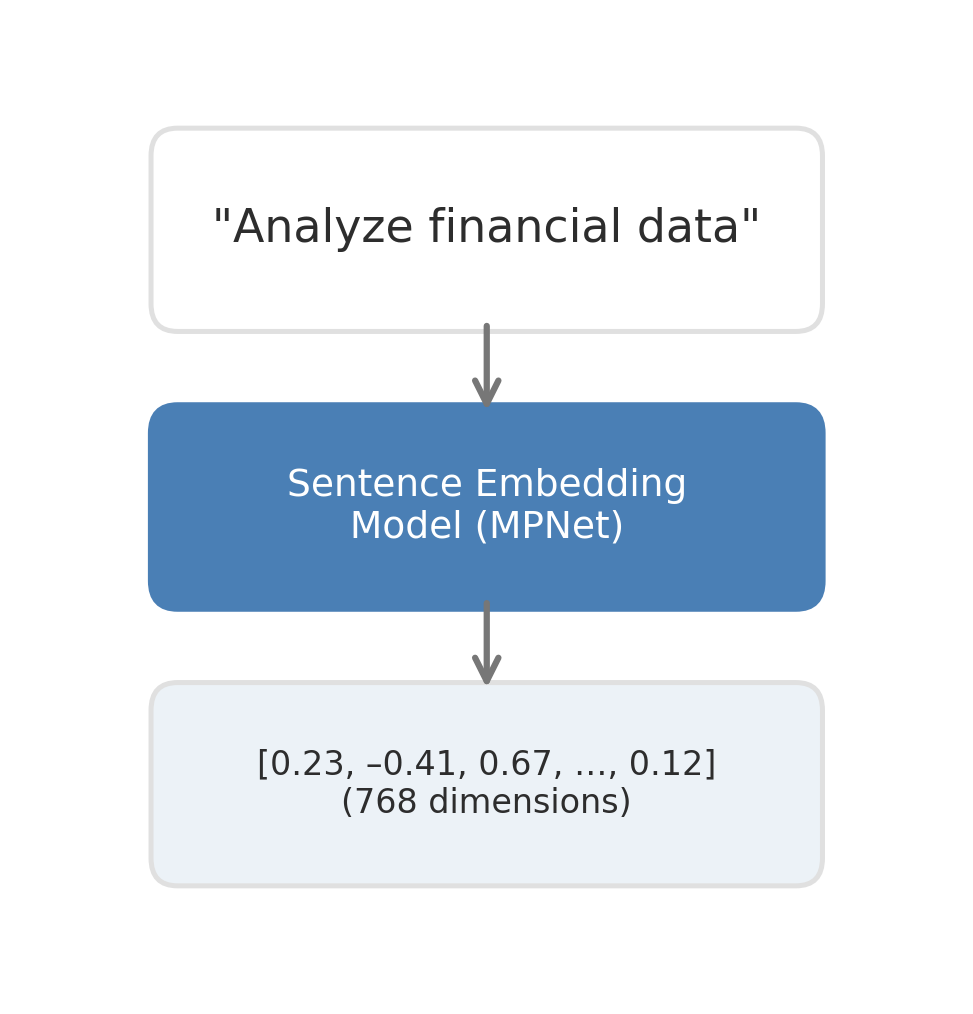
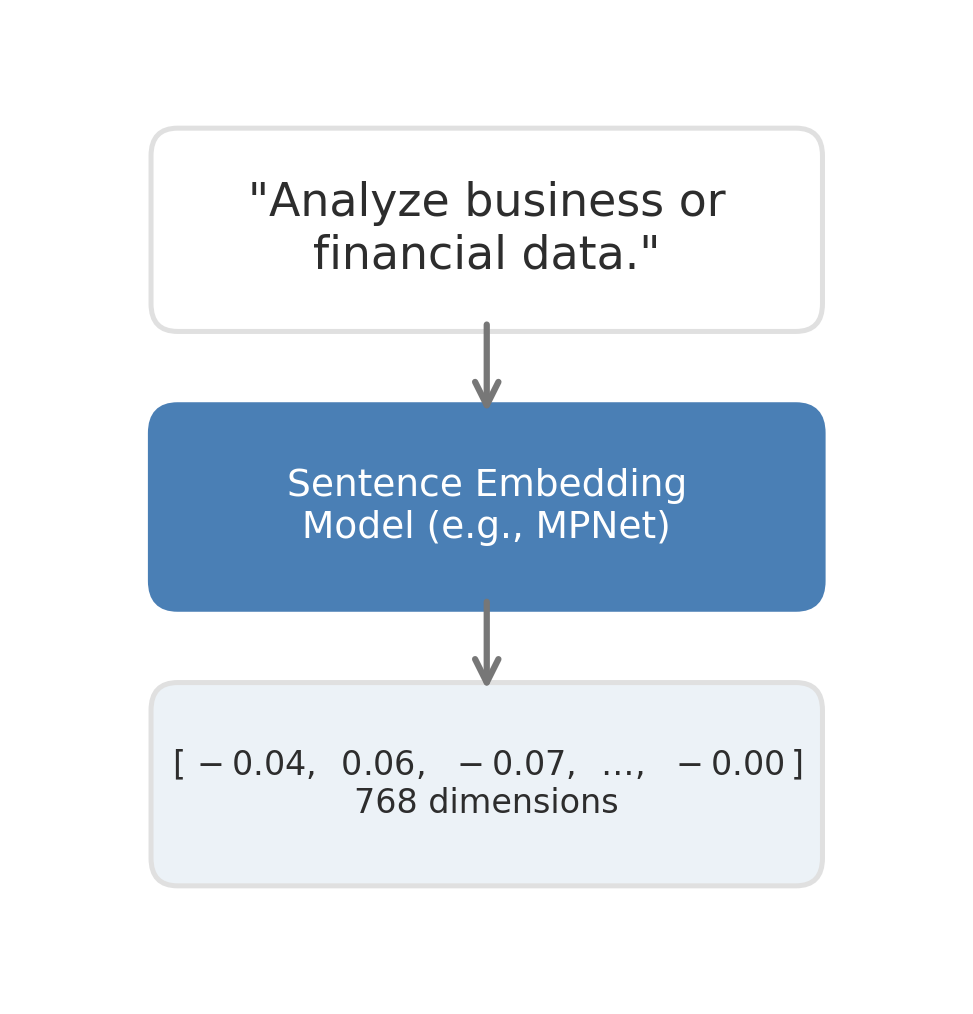
v0.7.10.0: Polish embedding explainer figures

diff --git a/figures/fig9_word_analogy.py b/figures/fig9_word_analogy.py
@@ -7,57 +7,65 @@ sys.path.insert(0, os.path.join(os.path.dirname(__file__), '..'))
 
 import matplotlib.pyplot as plt
 
-from figures.style import setup, PRIMARY, MID, DARK, add_subtitle
+from figures.style import (setup, PRIMARY, MID, DARK, GRID,
+                           add_subtitle, FONT_TITLE, FONT_TICK)
 
 font = setup()
 
+# Real approximate parallelogram positions
 points = {
-    'King':  (2.0, 3.5),
-    'Queen': (4.0, 3.5),
-    'Man':   (2.0, 1.5),
-    'Woman': (4.0, 1.5),
+    'King':  (1.8, 3.2),
+    'Queen': (4.3, 3.6),
+    'Man':   (1.5, 1.0),
+    'Woman': (4.1, 1.3),
 }
 
 fig, ax = plt.subplots(figsize=(4.5, 4.0))
-ax.set_xlim(0.5, 5.5)
-ax.set_ylim(0.3, 4.7)
-ax.axis('off')
+ax.set_xlim(0, 5.5)
+ax.set_ylim(0, 4.5)
+ax.grid(True, color=GRID, lw=0.5)
+ax.set_xticks([0, 1, 2, 3, 4, 5])
+ax.set_yticks([0, 1, 2, 3, 4])
+ax.tick_params(axis='both', labelsize=FONT_TICK)
 
 # --- Dashed arrows ---
 arrow_kw = dict(arrowstyle='->', color=MID, lw=1.2, linestyle='dashed')
 
-# Man → King (vertical — "royalty")
-ax.annotate('', xy=points['King'], xytext=points['Man'],
-            arrowprops=arrow_kw)
-ax.text(1.55, 2.5, 'royalty', fontsize=9, color=MID,
-        ha='center', va='center', rotation=90, fontstyle='italic')
+# Man → King ("royalty")
+mx, my = points['Man']
+kx, ky = points['King']
+ax.annotate('', xy=(kx, ky), xytext=(mx, my), arrowprops=arrow_kw)
+ax.text((mx + kx) / 2 - 0.35, (my + ky) / 2, 'royalty',
+        fontsize=FONT_TICK, color=MID, ha='center', va='center',
+        rotation=74, fontstyle='italic')
 
-# Man → Woman (horizontal — "gender")
-ax.annotate('', xy=points['Woman'], xytext=points['Man'],
-            arrowprops=arrow_kw)
-ax.text(3.0, 1.15, 'gender', fontsize=9, color=MID,
-        ha='center', va='center', fontstyle='italic')
+# Man → Woman ("gender")
+wx, wy = points['Woman']
+ax.annotate('', xy=(wx, wy), xytext=(mx, my), arrowprops=arrow_kw)
+ax.text((mx + wx) / 2, (my + wy) / 2 - 0.25, 'gender',
+        fontsize=FONT_TICK, color=MID, ha='center', va='center',
+        fontstyle='italic')
 
-# King → Queen (horizontal — same "gender" vector)
-ax.annotate('', xy=points['Queen'], xytext=points['King'],
+# King → Queen (same direction as Man→Woman, no label)
+qx, qy = points['Queen']
+ax.annotate('', xy=(qx, qy), xytext=(kx, ky),
             arrowprops=dict(arrowstyle='->', color=PRIMARY, lw=1.5,
                             linestyle='dashed'))
-ax.text(3.0, 3.85, 'gender', fontsize=9, color=PRIMARY,
-        ha='center', va='center', fontstyle='italic', fontweight='bold')
 
 # --- Points ---
 for name, (x, y) in points.items():
     ax.plot(x, y, 'o', color=PRIMARY, markersize=10, zorder=3)
-    # Position labels to avoid arrow overlap
     if name in ('King', 'Queen'):
-        ax.text(x, y + 0.3, name, fontsize=11, color=DARK,
+        ax.text(x, y + 0.25, name, fontsize=FONT_TITLE, color=DARK,
                 ha='center', va='bottom', fontweight='bold')
     else:
-        ax.text(x, y - 0.3, name, fontsize=11, color=DARK,
+        ax.text(x, y - 0.25, name, fontsize=FONT_TITLE, color=DARK,
                 ha='center', va='top', fontweight='bold')
 
-add_subtitle(fig, 'Directions in embedding space encode semantic relationships',
-             y=-0.02)
+# Formula subtitle
+add_subtitle(fig,
+             r'$\mathbf{king} - \mathbf{man} + \mathbf{woman} \approx \mathbf{queen}$',
+             y=-0.06, fontsize=FONT_TITLE)
 
 plt.savefig('figures/fig9_word_analogy.png', dpi=300,
             bbox_inches='tight', facecolor='white', edgecolor='none')

diff --git a/figures/fig8_embedding_flowchart.py b/figures/fig8_embedding_flowchart.py
@@ -26,6 +26,7 @@ y_sentence = 8.0
 y_model = 5.0
 y_vector = 2.0
 
+
 def draw_box(ax, cx, cy, w, h, text, fontsize, text_color=DARK,
              facecolor='white', edgecolor=GRID, linewidth=1.2):
     x0 = cx - w / 2
@@ -39,34 +40,39 @@ def draw_box(ax, cx, cy, w, h, text, fontsize, text_color=DARK,
     ax.text(cx, cy, text, ha='center', va='center',
             fontsize=fontsize, color=text_color, zorder=3)
 
-# Box 1: Sentence
+
+# Box 1: Sentence (actual O*NET DWA)
 draw_box(ax, cx, y_sentence, box_w, box_h,
-         '"Analyze financial data"',
+         '"Analyze business or\nfinancial data."',
          fontsize=FONT_TITLE, text_color=DARK,
          facecolor='white', edgecolor=GRID)
 
 # Box 2: Model
 draw_box(ax, cx, y_model, box_w, box_h,
-         'Sentence Embedding\nModel (MPNet)',
+         'Sentence Embedding\nModel (e.g., MPNet)',
          fontsize=FONT_LABEL, text_color='white',
          facecolor=PRIMARY, edgecolor=PRIMARY, linewidth=1.5)
 
-# Box 3: Vector
+# Box 3: Vector — actual MPNet embedding values, mathtext rendering
+vector_text = (r'$[\,-0.04,\;\; 0.06,\;\; -0.07,\;\; \ldots,\;\; -0.00\,]$'
+               '\n768 dimensions')
 draw_box(ax, cx, y_vector, box_w, box_h,
-         '[0.23, \u20130.41, 0.67, \u2026, 0.12]\n(768 dimensions)',
+         vector_text,
          fontsize=FONT_TICK, text_color=DARK,
          facecolor=lighten(PRIMARY, 0.9), edgecolor=GRID)
 
-# --- Arrows ---
+# --- Arrows (start/end at box edges with shrink padding) ---
 arrow_kw = dict(arrowstyle='->', color=MID, lw=1.5,
-                connectionstyle='arc3,rad=0', zorder=1)
+                shrinkA=5, shrinkB=5, zorder=1)
 
-ax.annotate('', xy=(cx, y_model + box_h / 2 + 0.15),
-            xytext=(cx, y_sentence - box_h / 2 - 0.15),
+# Sentence → Model
+ax.annotate('', xy=(cx, y_model + box_h / 2),
+            xytext=(cx, y_sentence - box_h / 2),
             arrowprops=arrow_kw)
 
-ax.annotate('', xy=(cx, y_vector + box_h / 2 + 0.15),
-            xytext=(cx, y_model - box_h / 2 - 0.15),
+# Model → Vector
+ax.annotate('', xy=(cx, y_vector + box_h / 2),
+            xytext=(cx, y_model - box_h / 2),
             arrowprops=arrow_kw)
 
 plt.savefig('figures/fig8_embedding_flowchart.png', dpi=300,

diff --git a/LEDGER.md b/LEDGER.md
@@ -1,6 +1,6 @@
 # LEDGER.md — Task-Space Oracle Research State
 
-**Current Version:** 0.7.9.9
+**Current Version:** 0.7.10.0
 **Last Updated:** 2026-03-10
 **Paper Draft:** `paper/main.tex`
 
@@ -764,6 +764,7 @@ Deprecated approaches. Do not retry.
 | Version | Date | Changes |
 |---------|------|---------|
 | 0.7.9.3 | 2026-03-09 | Captions for fig3/fig4, swap fig5/fig6 to Budget vs Credit Analysts. |
+| 0.7.10.0 | 2026-03-10 | Fig8 actual embedding values + arrow padding; fig9 real grid + formula + asymmetric parallelogram. |
 | 0.7.9.9 | 2026-03-10 | Embedding explainer figures — fig8 (flowchart), fig9 (word analogy parallelogram). |
 | 0.7.9.8 | 2026-03-10 | Align figure aspect ratios to presentation placeholders. |
 | 0.7.9.7 | 2026-03-10 | Style system upgrade — centralized palette (RED/ORANGE/GREEN/PURPLE), font scale constants, add_subtitle() and format_log_ticks() helpers. |
